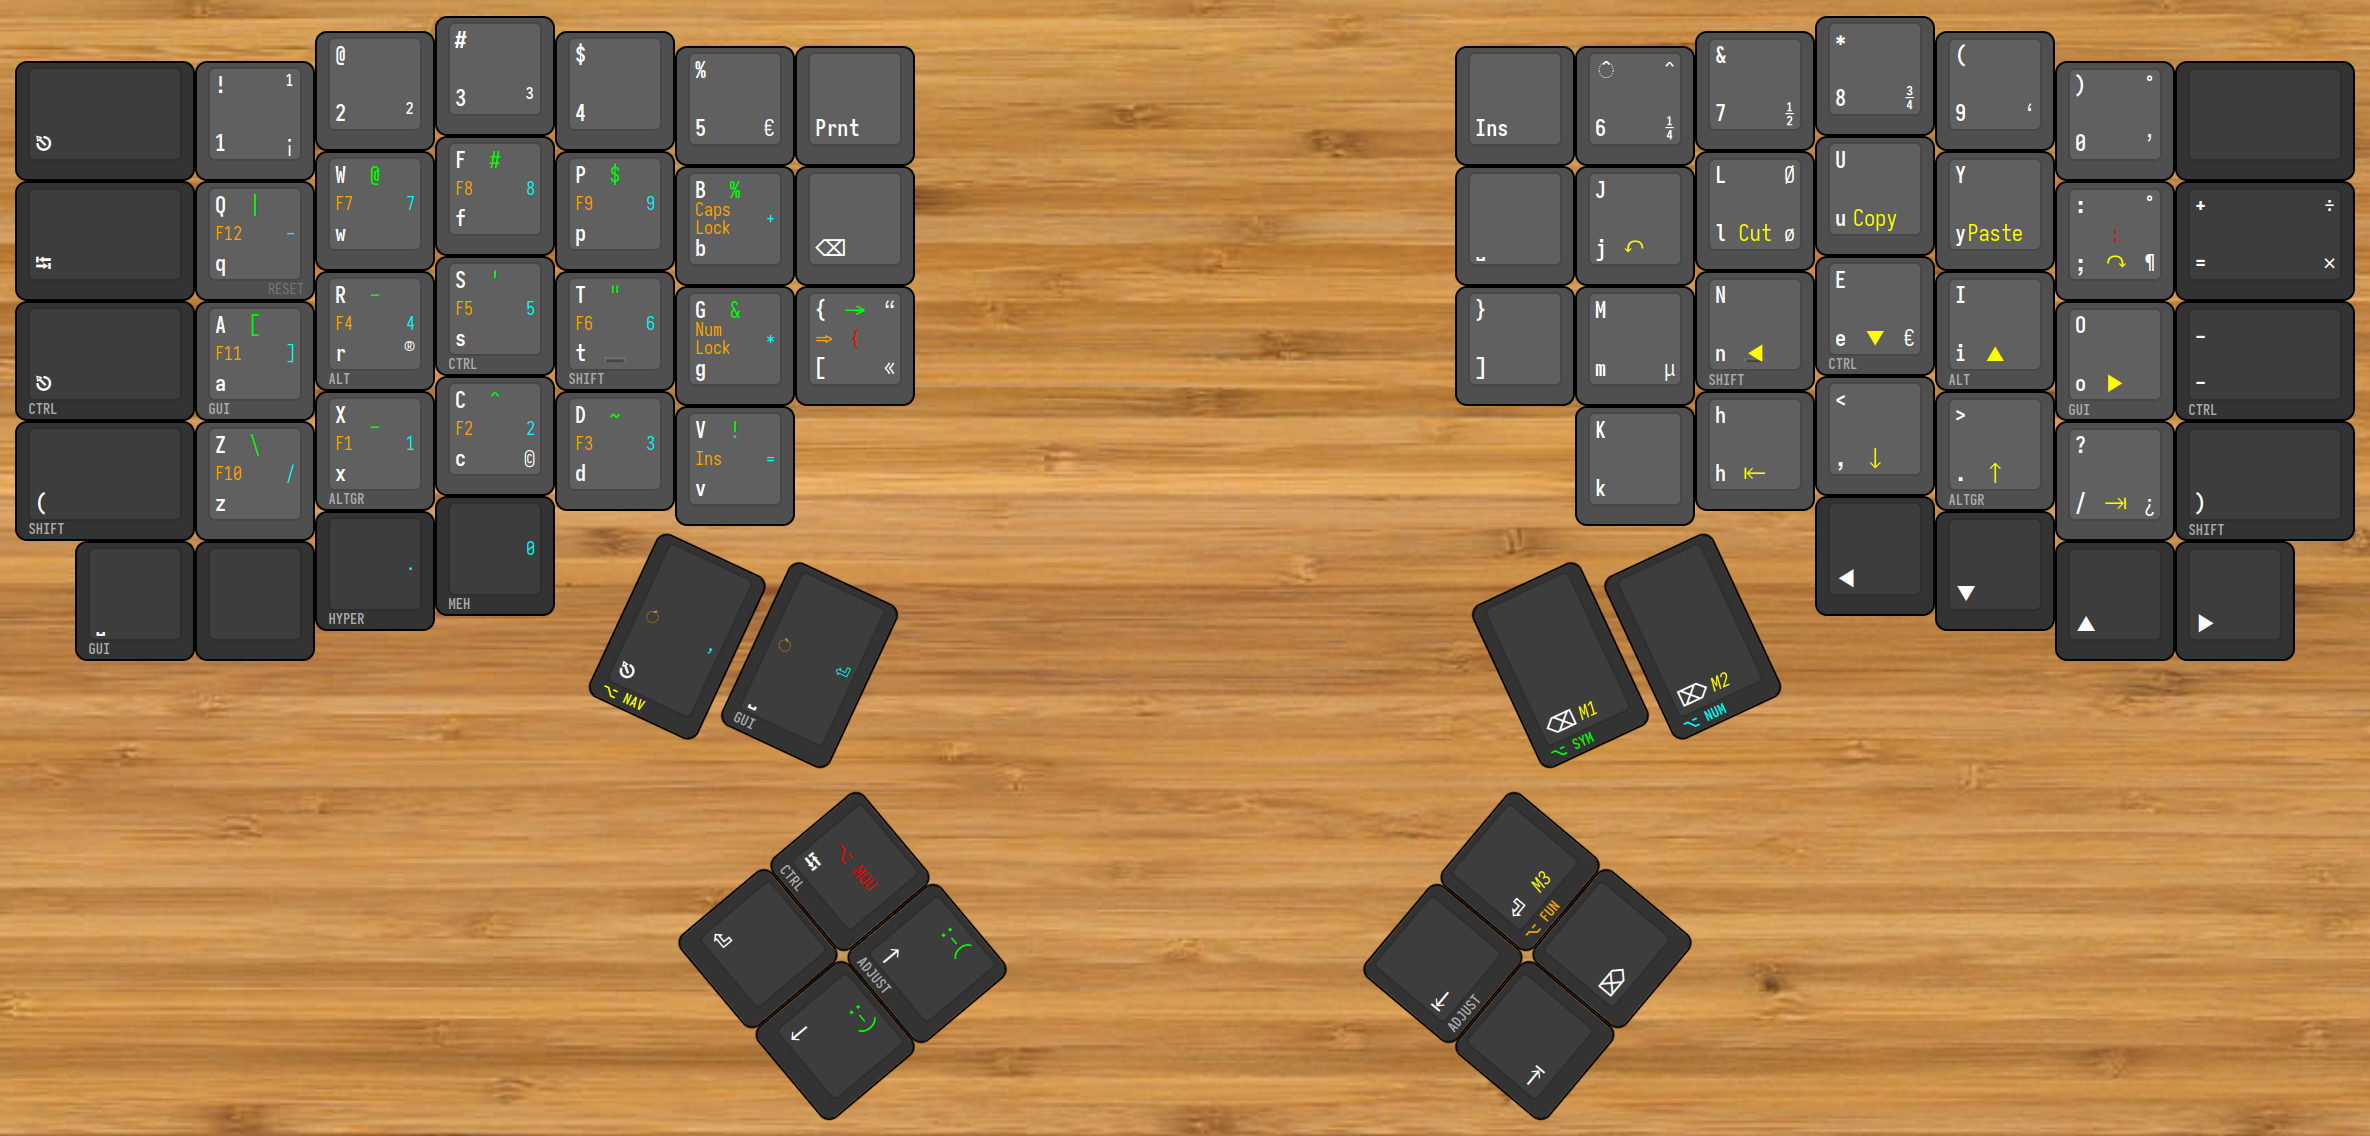
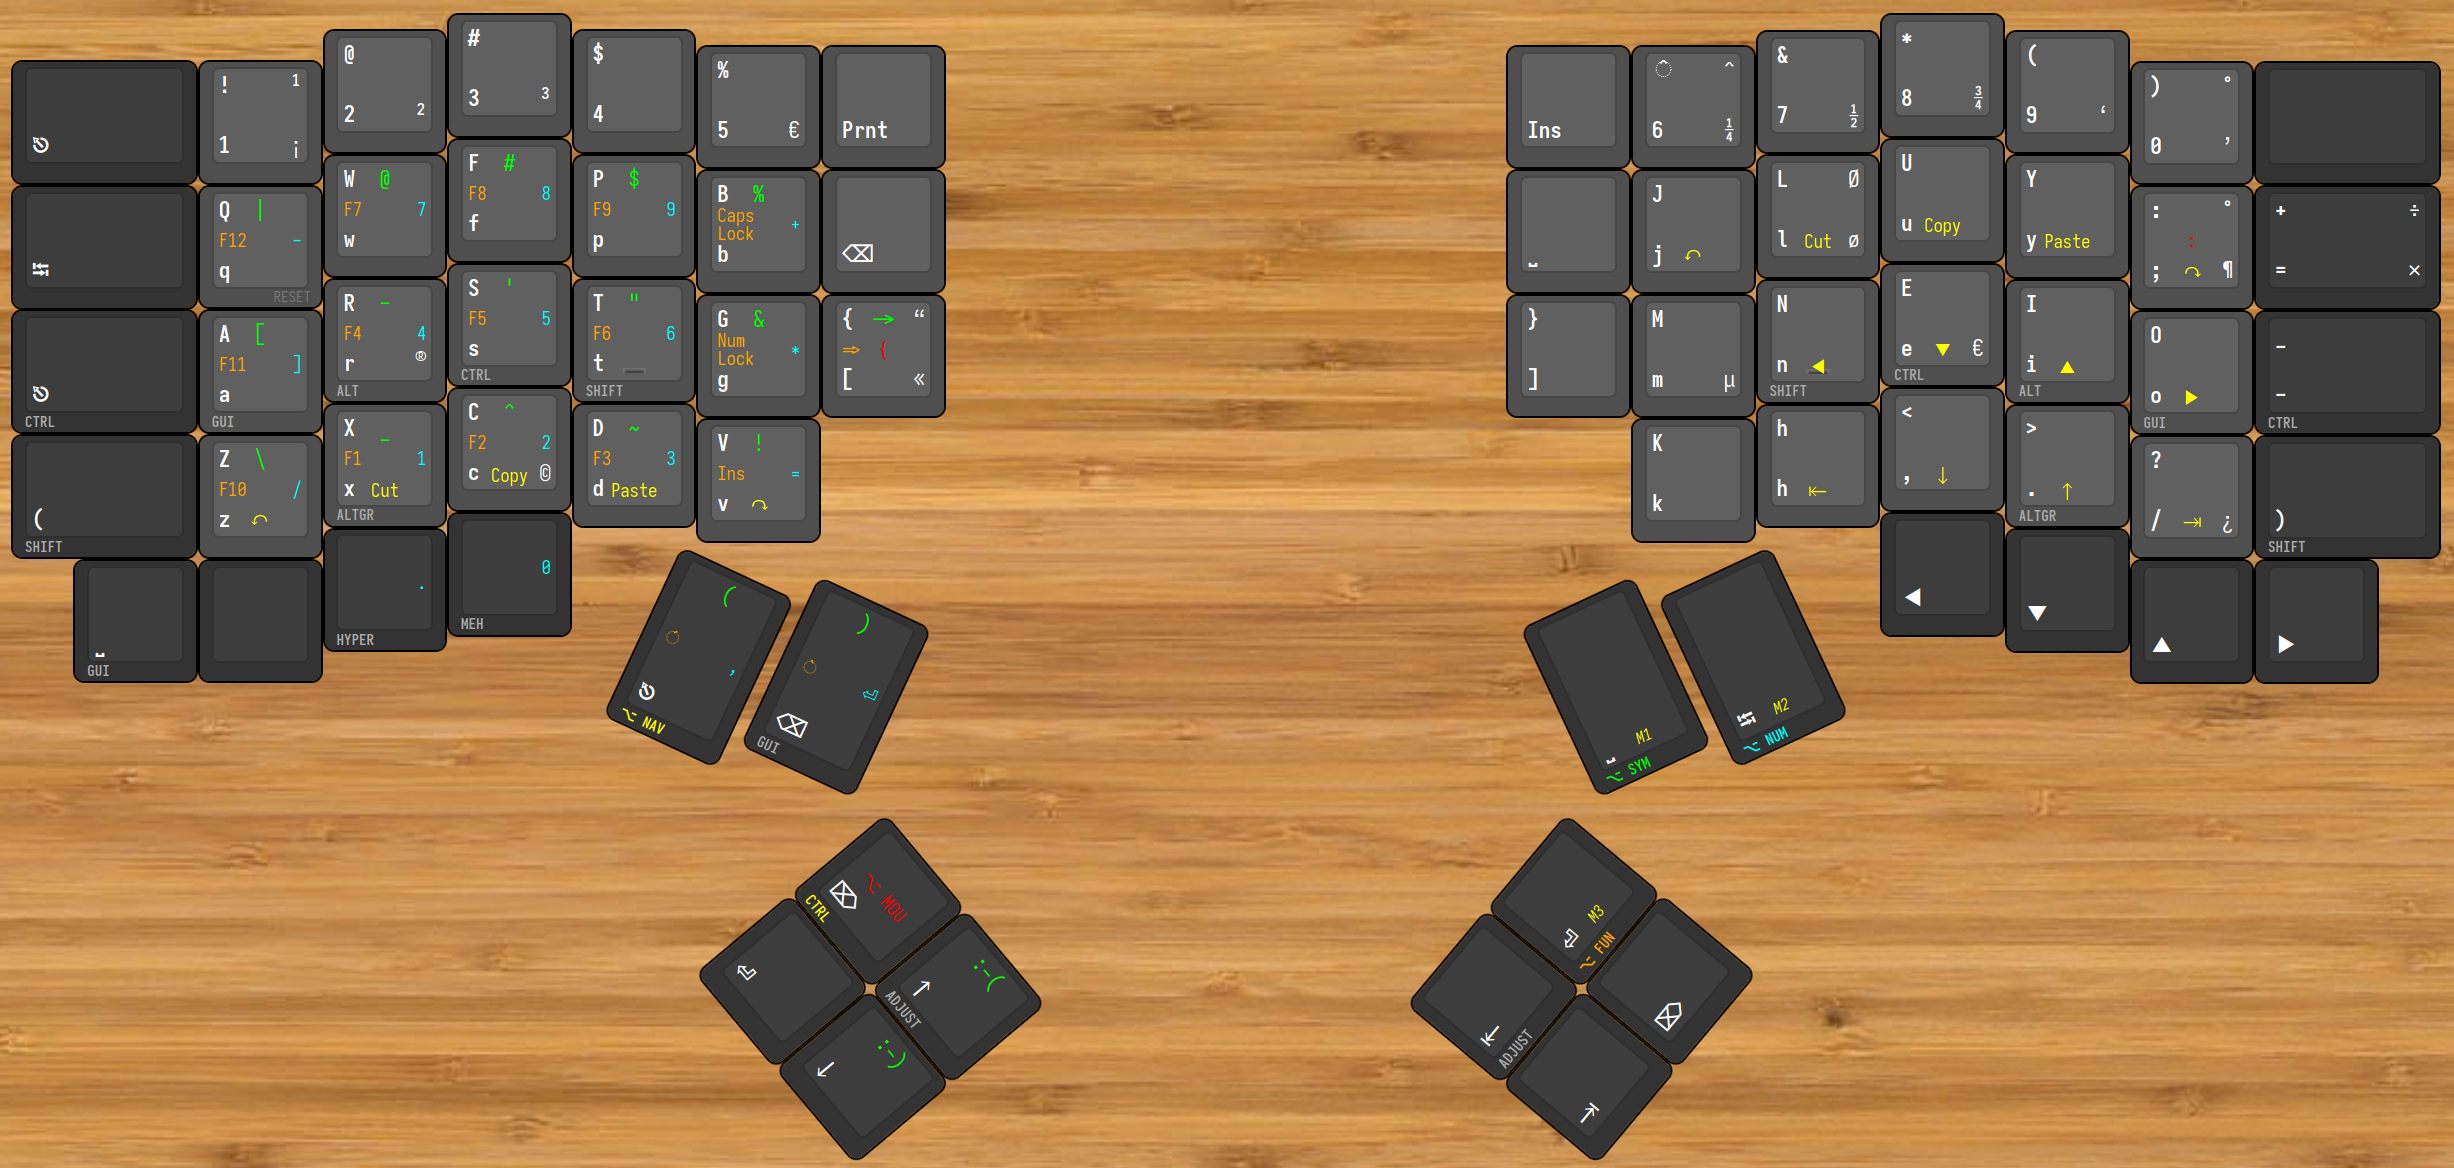
Some updates on the thumb cluster keys.
- Moved accents on function layer
- Added left and right parenthesis
- Back to my old Redox main thumb positions

diff --git a/keymap.c b/keymap.c
@@ -55,7 +55,8 @@ enum tap_dance_codes {
 #define KC_LS_T LSFT_T(KC_T)          // T / Left Shift
 // - Other keys/modifiers:
 #define KC_ATAB RALT_T(KC_TAB)        // Tab / Alt Gr
-#define KC_CESC LCTL_T(KC_ESC)        // Esc / Left Ctrlrs
+#define KC_CESC LCTL_T(KC_ESC)        // Esc / Left Ctrl
+#define KC_CTBS LCTL_T(KC_BSPC)        // Esc / Left Ctrl
 #define KC_GUSP RGUI_T(KC_SPC)        // Space / Right Gui
 #define KC_AEQL LALT_T(KC_EQL)        // Equals / Left Alt
 #define KC_CMIN RCTL_T(KC_MINUS)      // Minus / Right Ctrl
@@ -71,6 +72,7 @@ enum tap_dance_codes {
 #define KC_GUES RGUI_T(KC_ESC)        // Backspace / Right Gui
 #define KC_AEQL LALT_T(KC_EQL)        // Equals / Left Alt
 #define KC_GUBS RGUI_T(KC_BSPC)       // Backspace / Right Gui
+#define KC_GUDE RGUI_T(KC_DEL)       // Del / Right Gui
 #define KC_GUEN RGUI_T(KC_ENT)        // Enter / Right Gui
 #define KC_GUCO RGUI_T(KC_COMM)       // Comma / Right Gui
 #define KC_SYBS LT(_SYMB, KC_BSPC)    // Backspace / _symbols
@@ -90,7 +92,7 @@ enum tap_dance_codes {
 /* #define TG_NAV TG(_NAVI) */
 
 // - Tap dance keys:
-#define TD_TCMO TD(DANCE_1)
+#define TD_DCMO TD(DANCE_1)
 #define TD_SCLN TD(DANCE_2)
 #define TD_LBRC TD(DANCE_3)
 #define TD_RBRC TD(DANCE_4)
@@ -111,7 +113,7 @@ enum tap_dance_codes {
 /* #define U_UND KC_UNDO */
 // #define U_RDO KC_AGIN // Emacs executes "reperat-complex-command"
 #define U_UND C(KC_UNDS)
-#define U_RDO A(KC_UNDS)
+#define U_RDO A(KC_AGIN)
 /* #define U_ALL C(KC_A) // Emacs need to rebind mark-whole-buffer to: C-a */
 
 
@@ -246,8 +248,8 @@ const uint16_t PROGMEM keymaps[][MATRIX_ROWS][MATRIX_COLS] = {
    KC_CESC ,KC_GU_A ,KC_AL_R ,KC_CT_S ,KC_LS_T ,KC_G    ,TD_LBRC ,
    KC_LSPO ,KC_Z    ,KC_AR_X ,KC_C    ,KC_D    ,KC_V    ,
    KC_GUSP ,XXXXXXX ,KC_HYPR ,KC_MEH  ,
-                                  KC_NAES ,KC_GUSP ,
-                                  TD_TCMO ,KC_ADPU ,
+                                  KC_NAES ,KC_GUBS ,
+                                  TD_DCMO ,KC_ADPU ,
                                   KC_ENT  ,KC_PGDN ,
         // right hand
                      KC_INS  ,KC_6    ,KC_7    ,KC_8    ,KC_9    ,KC_0    ,XXXXXXX ,
@@ -255,20 +257,20 @@ const uint16_t PROGMEM keymaps[][MATRIX_ROWS][MATRIX_COLS] = {
                      TD_RBRC ,KC_M    ,KC_RS_N ,KC_CT_E ,KC_AL_I ,KC_GU_O ,KC_CMIN ,
                               KC_K    ,KC_H    ,KC_COMM ,KC_AR_DO,KC_SLSH ,KC_RSPC ,
                                        KC_LEFT ,KC_DOWN ,KC_UP   ,KC_RGHT,
-        KC_SYBS ,KC_NUDE ,
-        KC_ADHO ,KC_FUEN ,
-        KC_END  ,KC_SPC),
+        KC_SYSP ,KC_NUTA ,
+        KC_ADHO ,KC_FUEN,
+        KC_END  ,KC_DEL),
 
 // Symbols
 [_SYMB] = LAYOUT_5x7(
   // left hand
    _______ ,_______ ,_______ ,_______ ,_______ ,_______ ,_______ ,
    _______ ,KC_PIPE ,KC_AT   ,KC_HASH ,KC_DLR  ,KC_PERC ,_______ ,
-   _______ ,KC_LBRC ,KC_PMNS ,ASC_SQT ,ASC_DQT ,KC_EXLM ,ASC_SAR ,
-   _______ ,KC_BSLS ,KC_UNDS ,ASC_CIRC,ASC_TILD,KC_AMPR ,
+   _______ ,KC_LBRC ,KC_PMNS ,ASC_SQT ,ASC_DQT ,KC_AMPR ,ASC_SAR ,
+   _______ ,KC_BSLS ,KC_UNDS ,ASC_CIRC,ASC_TILD,KC_EXLM ,
    _______ ,_______ ,_______ ,_______ ,
-                                  KC_LPRN ,KC_GRV  ,
-                                  KC_QUOT ,ASC_SAD ,
+                                  KC_LPRN ,KC_RPRN ,
+                                  _______ ,ASC_SAD ,
                                   _______ ,ASC_HAP ,
         // right hand
                      _______ ,_______ ,_______ ,_______ ,_______ ,_______ ,_______ ,
@@ -288,7 +290,7 @@ const uint16_t PROGMEM keymaps[][MATRIX_ROWS][MATRIX_COLS] = {
    _______ ,_______ ,_______ ,_______ ,_______ ,_______ ,_______ ,
    _______ ,_______ ,_______ ,_______ ,_______ ,_______ ,_______ ,
    _______ ,_______ ,_______ ,_______ ,_______ ,_______ ,_______ ,
-   _______ ,_______ ,_______ ,_______ ,_______ ,_______ ,
+   _______ ,U_UND   ,U_CUT   ,U_CPY   ,U_PST   ,U_RDO   ,
    _______ ,_______ ,_______ ,_______ ,
                                   _______ ,_______ ,
                                   _______ ,_______ ,
@@ -310,7 +312,7 @@ const uint16_t PROGMEM keymaps[][MATRIX_ROWS][MATRIX_COLS] = {
    _______ ,_______ ,_______ ,_______ ,_______ ,_______ ,_______ ,
    _______ ,_______ ,_______ ,_______ ,_______ ,_______ ,_______ ,
    _______ ,_______ ,_______ ,_______ ,_______ ,_______ ,_______ ,
-   _______ ,_______ ,_______ ,_______ ,_______ ,_______ ,
+   _______ ,U_UND   ,U_CUT   ,U_CPY   ,U_PST   ,U_RDO   ,
    _______ ,_______ ,_______ ,_______ ,
                                   _______ ,_______ ,
                                   _______ ,_______ ,
@@ -354,7 +356,7 @@ const uint16_t PROGMEM keymaps[][MATRIX_ROWS][MATRIX_COLS] = {
    _______ ,KC_F11  ,KC_F4   ,KC_F5   ,KC_F6   ,KC_NLCK ,ASC_DAR ,
    _______ ,KC_F10  ,KC_F1   ,KC_F2   ,KC_F3   ,KC_INS ,
    _______ ,_______ ,_______ ,_______ ,
-                                  _______ ,_______ ,
+                                  KC_QUOT ,KC_GRV  ,
                                   _______ ,_______ ,
                                   _______ ,_______ ,
         // right hand
@@ -424,15 +426,15 @@ static tap dance_state = {
 /* void dance_1_finished(qk_tap_dance_state_t *state, void *user_data); */
 /* void dance_1_reset(qk_tap_dance_state_t *state, void *user_data); */
 
-// Dance 1: Tab / Ctrl / _Mouse
+// Dance 1: Del / Ctrl / _Mouse
 void on_dance_1(qk_tap_dance_state_t *state, void *user_data) {
   if(state->count == 3) {
-    tap_code16(KC_TAB);
-    tap_code16(KC_TAB);
-    tap_code16(KC_TAB);
+    tap_code16(KC_DEL);
+    tap_code16(KC_DEL);
+    tap_code16(KC_DEL);
   }
   if(state->count > 3) {
-    tap_code16(KC_TAB);
+    tap_code16(KC_DEL);
   }
 }
 
@@ -450,22 +452,22 @@ uint8_t dance_1_dance_step(qk_tap_dance_state_t *state) {
 void dance_1_finished(qk_tap_dance_state_t *state, void *user_data) {
   dance_state.step = dance_1_dance_step(state);
   switch (dance_state.step) {
-  case SINGLE_TAP: register_code16(KC_TAB); break;
+  case SINGLE_TAP: register_code16(KC_DEL); break;
   case SINGLE_HOLD: register_mods(MOD_BIT(KC_LCTL)); break;
-  case DOUBLE_TAP: register_code16(KC_TAB); register_code16(KC_TAB); break;
+  case DOUBLE_TAP: register_code16(KC_DEL); register_code16(KC_DEL); break;
   case DOUBLE_HOLD: layer_on(_MOUS); break;
-  case DOUBLE_SINGLE_TAP: tap_code16(KC_TAB); register_code16(KC_TAB);
+  case DOUBLE_SINGLE_TAP: tap_code16(KC_DEL); register_code16(KC_DEL);
   }
 }
 
 void dance_1_reset(qk_tap_dance_state_t *state, void *user_data) {
   wait_ms(10);
   switch (dance_state.step) {
-  case SINGLE_TAP: unregister_code16(KC_TAB); break;
+  case SINGLE_TAP: unregister_code16(KC_DEL); break;
   case SINGLE_HOLD: unregister_mods(MOD_BIT(KC_LCTL)); break;
-  case DOUBLE_TAP: unregister_code16(KC_TAB); break;
+  case DOUBLE_TAP: unregister_code16(KC_DEL); break;
   case DOUBLE_HOLD: layer_off(_MOUS); break;
-  case DOUBLE_SINGLE_TAP: unregister_code16(KC_TAB); break;
+  case DOUBLE_SINGLE_TAP: unregister_code16(KC_DEL); break;
   }
   dance_state.step = 0;
 }
